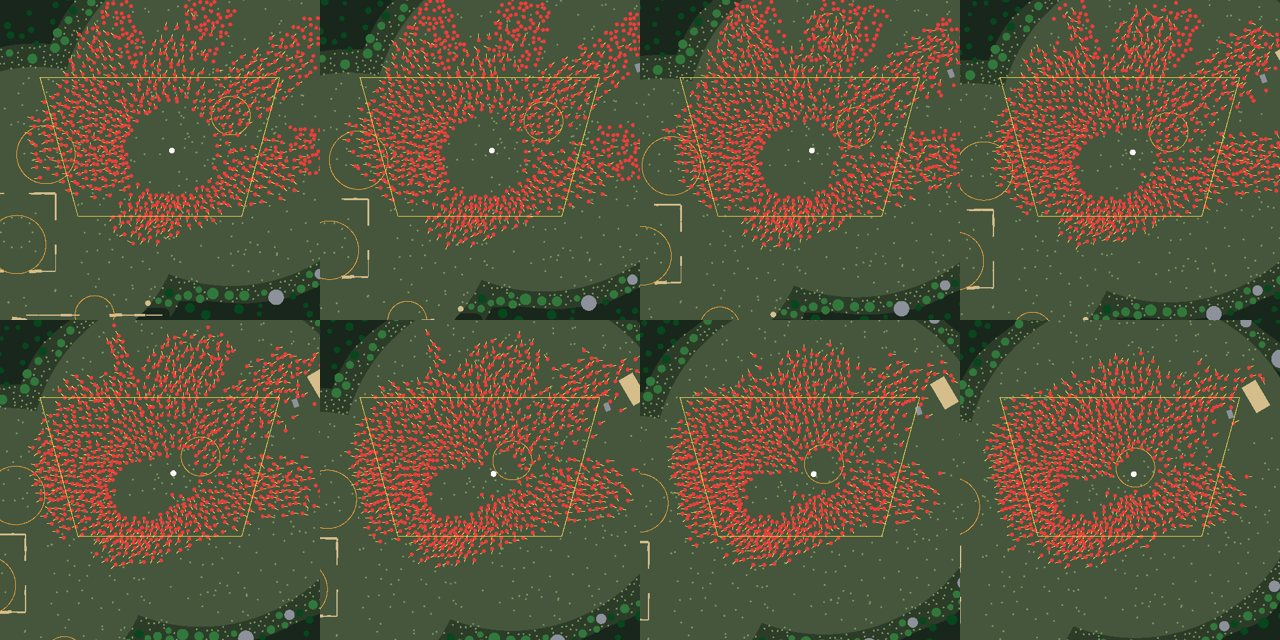
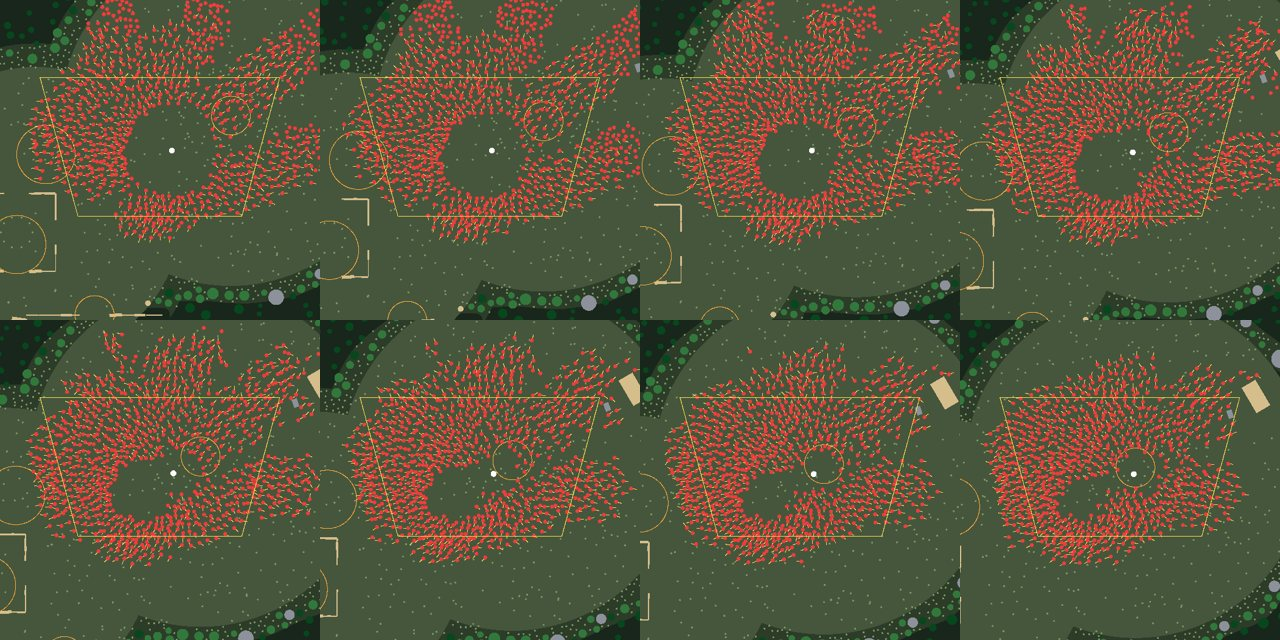
fix(choreography): address the kiting review: no dust from cut-short windups, no overlapping opening placements, docs

Changed region(s): [[0.0, 0.0, 1.0, 0.4062], [0.0, 0.5, 1.0, 0.9062]]

diff --git a/unity-packages/com.playlistsurvivors.choreography/Runtime/Sim.cs b/unity-packages/com.playlistsurvivors.choreography/Runtime/Sim.cs
@@ -2815,7 +2815,8 @@ namespace PS.Choreography
         /// <summary>
         /// Places monsters on a hexagonal lattice over [<paramref name="min"/>, <paramref name="max"/>], each point kept
         /// with the chance <paramref name="density"/> gives over the lattice's, on open ground the hero's path reaches and
-        /// clear of the hero at <paramref name="h"/>. A big monster that would touch one already placed gives way to fodder.
+        /// clear of the hero at <paramref name="h"/>. A big monster that would touch one already placed gives way to fodder,
+        /// and fodder that still would leaves the point empty.
         /// </summary>
         void Fill(double t, Vector2 h, Vector2 min, Vector2 max, Func<Vector2, float> density)
         {
@@ -2826,22 +2827,29 @@ namespace PS.Choreography
             var placed = new float[cols * rows];   // the radius of the monster on each point, 0 for none
             int ring = (int)Math.Ceiling(2 * roster.MaxMonsterRadius / rowH);
             Vector2 At(int i, int j) => new Vector2(min.X + i * spacing + ((j & 1) == 1 ? spacing / 2 : 0), min.Y + j * rowH);
+            int ci = 0, cj = 0;   // the lattice point being placed
+            bool Touches(float r)
+            {
+                for (int dj = -ring; dj <= ring; dj++)
+                    for (int di = -ring; di <= ring; di++)
+                    {
+                        int ii = ci + di, jj = cj + dj;
+                        if (ii < 0 || jj < 0 || ii >= cols || jj >= rows || placed[jj * cols + ii] <= 0) continue;
+                        if (Vector2.Distance(At(ci, cj), At(ii, jj)) < r + placed[jj * cols + ii]) return true;
+                    }
+                return false;
+            }
             for (int j = 0; j < rows; j++)
                 for (int i = 0; i < cols; i++)
                 {
-                    Vector2 p = At(i, j);
+                    Vector2 p = At(ci = i, cj = j);
                     float d = density(p);
                     if (d <= 0 || spawnRng.NextFloat() >= d * perPoint) continue;
                     int type = PickType(plan.Mix, false);
                     if (Vector2.Distance(p, h) < initialInnerRadius) continue;
-                    for (int dj = -ring; dj <= ring; dj++)
-                        for (int di = -ring; di <= ring; di++)
-                        {
-                            int ii = i + di, jj = j + dj;
-                            if (ii < 0 || jj < 0 || ii >= cols || jj >= rows || placed[jj * cols + ii] <= 0) continue;
-                            if (Vector2.Distance(p, At(ii, jj)) < roster.Monsters[type].Radius + placed[jj * cols + ii]) type = PickType(plan.Mix, true);
-                        }
+                    if (Touches(roster.Monsters[type].Radius)) type = PickType(plan.Mix, true);
                     float r = roster.Monsters[type].Radius;
+                    if (Touches(r)) continue;
                     if (nav != null && (nav.Distance(p) < r + FormationClearM || !pathFields[0].Reached(p))) continue;
                     placed[j * cols + i] = r;
                     Spawn(type, p, t, true);

diff --git a/demo3d/Assets/Demo3D/Runtime/Effects/EffectDriver.cs b/demo3d/Assets/Demo3D/Runtime/Effects/EffectDriver.cs
@@ -338,19 +338,26 @@ namespace Demo3D.Runtime.Effects
                 if (b.Time <= from || fx < 0) continue;
                 Add(fx, b.Position, ShatterYaw(b.Blow), b.Scale, b.Seed, b.Time, Vector3.zero, 0, 0, b.Tint);
             }
-            // A dust puff at each monster's attack.
+            // A dust puff at each monster's attack that lands (a trailer shot keeps windups the hero's blow cut short).
             while (_nextAction < _actionsByTime.Length)
             {
                 var act = _tl.Actions[_actionsByTime[_nextAction]];
                 if (act.Impact > now) break;
                 _nextAction++;
-                if (_dust < 0 || act.Kind != ActionKind.Attack || act.Entity == 0) continue;
+                if (_dust < 0 || act.Kind != ActionKind.Attack || act.Entity == 0 || DiedBy(act.Entity, act.Impact)) continue;
                 var g = _tl.PositionAt(act.Entity, act.Impact, out float facing);
                 var d = Easing.Dir(facing);
                 Add(_dust, new Vector3(g.X + d.X * 0.4f, 0.05f, g.Y + d.Y * 0.4f), facing, 1f, (uint)act.Entity * 2654435761u, act.Impact, Vector3.zero, 0, 0);
             }
             // Ambient fireflies and wisps over the view (AmbientEffects).
             if (Ambient) EventsThisFrame += _ambient.Spawn(now, t => { var f = _tl.FramingAt(t); return (new Vector2(f.Focus.X, f.Focus.Y), f.ViewWidth); });
+        }
+
+        /// <summary>Has entity <paramref name="e"/> died by song time <paramref name="t"/>?</summary>
+        bool DiedBy(int e, double t)
+        {
+            foreach (ActionEvent a in _tl.ActionsOf(e)) if (a.Kind == ActionKind.Death && a.Impact <= t) return true;
+            return false;
         }
     }
 }

diff --git a/demo3d/Assets/Demo3D/Tests/Choreography/TrailerTests.cs b/demo3d/Assets/Demo3D/Tests/Choreography/TrailerTests.cs
@@ -78,7 +78,6 @@ namespace Demo3D.Choreography.Tests
             Assert.That(ex.Message, Does.Contain(message));
         }
 
-        /// <summary>The first shot's anchors count from its pre-roll's start, so its pre-roll may hold none.</summary>
         [Test]
         public void AFormationWithoutAPathFails()
         {
@@ -88,6 +87,7 @@ namespace Demo3D.Choreography.Tests
             Assert.That(ex.Message, Does.Contain("shot 2: a formation's hero kites, so it needs a path"));
         }
 
+        /// <summary>The first shot's anchors count from its pre-roll's start, so its pre-roll may hold none.</summary>
         [Test]
         public void AFirstShotWhosePrerollCoversAnAnchorFails()
         {
@@ -307,7 +307,7 @@ namespace Demo3D.Choreography.Tests
             Assert.That(problems[0], Does.Contain("neither strides nor attacks"));
         }
 
-        /// <summary>A monster frozen in view fails in every beat interval it neither moves nor plays a clip; one spawning there passes it.</summary>
+        /// <summary>A monster frozen in view fails in every beat interval it neither moves nor plays a clip.</summary>
         [Test]
         public void AMonsterThatStandsAroundFails()
         {

diff --git a/demo3d/evidence/trailer/kiting/README.md b/demo3d/evidence/trailer/kiting/README.md
@@ -52,21 +52,22 @@ What to look for:
 ```
 shot  environment  on screen / target  swings/s  kills/swing (mean, peak)  hero acted  kite  liveness
    1  crypt                - / 3           1.21          1.0, 1                 100 %     -         0
-   2  desert             596 / 600         3.23         19.2, 196               100 %   2.4         0
-   3  snow               708 / 700         2.42         47.9, 168               100 %   2.4         0
-   4  forest             501 / 500         2.58         22.1, 113               100 %   2.3         0
-   5  crypt              488 / 540         2.58         40.9, 95                100 %   2.4         0
+   2  desert             597 / 600         3.23         19.1, 197               100 %   2.4         0
+   3  snow               710 / 700         2.42         47.8, 160               100 %   2.4         0
+   4  forest             501 / 500         2.58         20.8, 111               100 %   2.3         0
+   5  crypt              521 / 540         2.58         27.2, 106               100 %   2.4         0
    6  desert             389 / 400         1.29         38.5, 43                100 %   2.3         0
-   7  snow               470 / 500         1.94         77.7, 169               100 %   2.5         0
-   8  crypt              454 / 500         2.58         17.8, 29                100 %   2.3         0
-   9  desert             615 / 600         1.94         14.7, 16                100 %   2.4         0
-  10  forest            1271 / 1300        2.84        175.0, 1561              100 %   2.3         0
+   7  snow               471 / 500         1.94         78.0, 164               100 %   2.5         0
+   8  crypt              458 / 500         2.58         18.0, 20                100 %   2.3         0
+   9  desert             615 / 600         1.94         16.0, 18                100 %   2.4         0
+  10  forest            1283 / 1300        2.84        175.7, 1578              100 %   2.3         0
 trailer checks: ok
 ```
 
 The checks also pass for `--roster forest` and `--roster heroic`. With the
-trailer's seed changed, seeds 3, 5, 9, 10, 11, 13, 21, 29 and 42 pass every
-check, and seed 17 has a single monster interval. Pinned with
+trailer's seed changed, seeds 3, 5, 9, 10, 11, 13, 17, 21, 27, 28, 29 and
+42 pass every check too. The roster sets share the trailer's shot fields and roster, so
+their tables match the default's. Pinned with
 `--environment` to forest, crypt or neon, shot 2 or 5 can miss one bar's
 density by up to 20%. The acceptance doesn't cover pins, and the first cut
 had the same gap.

diff --git a/docs/tech-demo-3d/choreography.md b/docs/tech-demo-3d/choreography.md
@@ -221,7 +221,8 @@ What the simulation does on each grid step:
   field around walls and structures (see
   [Navigation around structures](#navigation-around-structures)). A spatial
   hash keeps them apart, so they never overlap by more than a quarter of
-  their radius.
+  their radius (a trailer shot's formation lets its crowd press and shove
+  closer, see [Shot fields](#shot-fields)).
 - **The clear ring.** A level script's `clearRadiusM` (the song's is 2 m)
   keeps the horde out of a ring round the hero, as in a horde survivor game,
   where the hero's weapons kill whatever closes in. Monsters stop at the
@@ -566,7 +567,8 @@ shot with a `formation` opens with its formation's placement and refills
 toward its target from the view's edge, predicting two beats ahead. Every
 monster chases on every beat, and its heading bends away from the
 neighbours pressing on it. A blocked monster waits for its neighbours,
-then follows one, sidesteps or, boxed in, shoves. A windup the hero's blow
+then follows one, sidesteps or, boxed in, shoves: a formation's crowd packs
+to 20% of the smaller radius's overlap, and a shove to 40%. A windup the hero's blow
 cuts short stays in the timeline. A kiting hero outruns the horde, so an
 off-screen monster behind it, past the spawn band, leaves (except round a
 vortex's loop).

diff --git a/docs/tech-demo-3d/trailer.md b/docs/tech-demo-3d/trailer.md
@@ -781,13 +781,11 @@ Never jam, in a formation's shot:
 
 The liveness check holds: zero violations in all ten shots, for the
 default roster and the forest and heroic sets. The density check passes
-too, and both hold across most other trailer seeds: seeds 3, 5, 9, 10, 11,
-13, 21, 29 and 42 pass every check, and seed 17 has one monster interval.
+too, and both hold across other trailer seeds: seeds 3, 5, 9, 10, 11, 13,
+17, 21, 27, 28, 29 and 42 pass every check.
 Pinned to one environment, shot 2 or 5 can still miss a bar's density by
 up to 20%. Tuning changes from the first cut:
 
-- shot 4 converges at `shapeScale` 2.0, since slashes alone left its
-  streams piling up;
 - shots 6 and 8 run at 1.6 and 1.3, since spins and lightning on every beat
   killed faster than their streams could fill;
 - shot 5's elite charge aims at 540, since its big bodies jam a 600-strong
